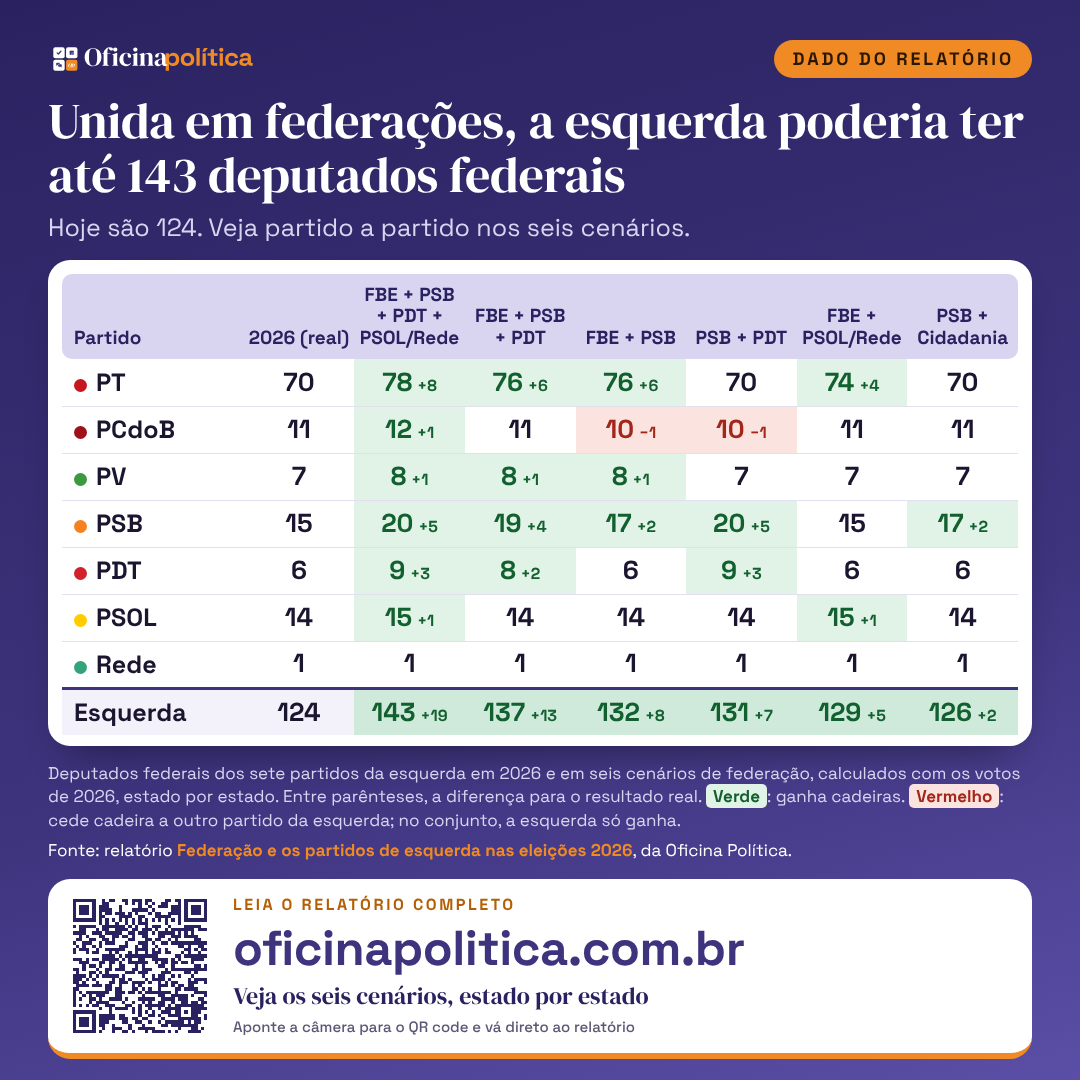
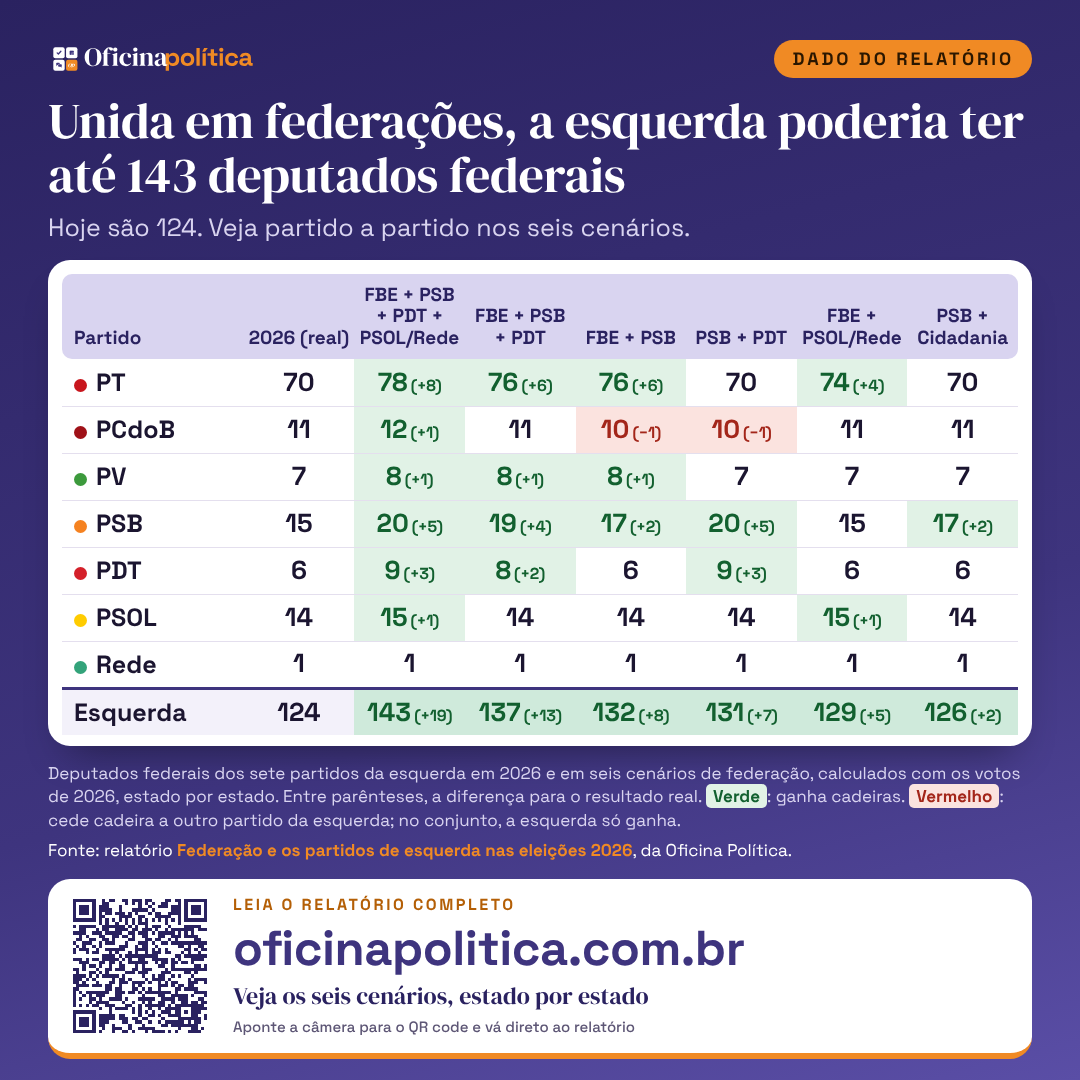
Cards do relatório: diferenças entre parênteses
Claude-Session: https://claude.ai/code/session_018UqncxGv53YAguem9gT8zL

diff --git a/scripts/estudos/card_relatorio.py b/scripts/estudos/card_relatorio.py
@@ -45,7 +45,7 @@ def tabela():
             else:
                 m = re.match(r'^(\d+)(?: \(([+−]\d+)\))?$', t.strip()); n, d = (m.group(1), m.group(2)) if m else (t, None)
                 cls = 'g' if bg == GAIN else ('l' if bg == LOSS else '')
-                tds.append(f'<td class="{cls}"><b>{n}</b>' + (f'<span>{d}</span>' if d else '') + '</td>')
+                tds.append(f'<td class="{cls}"><b>{n}</b>' + (f'<span>({d})</span>' if d else '') + '</td>')
         trs.append(f'<tr class="{"tot" if tot else ""}">' + ''.join(tds) + '</tr>')
     return f'<table><thead><tr>{th}</tr></thead><tbody>{"".join(trs)}</tbody></table>'
 
@@ -82,7 +82,7 @@ th{{font:700 {f['th']}px/1.15 "Space Grotesk";color:#2A2260;background:#D9D4F0;t
 th:first-child{{border-radius:10px 0 0 10px}}th:last-child{{border-radius:0 10px 10px 0}}
 th.p,td.p{{text-align:left;width:19%}}th.p{{padding-left:12px}}
 td{{height:{f['row']}px;text-align:center;border-bottom:1.5px solid #e4dfee;font-size:{f['td']}px;line-height:1.05;white-space:nowrap}}
-td b{{font-weight:700}}td span{{font-size:{f['td']*.62:.0f}px;font-weight:700;margin-left:5px}}
+td b{{font-weight:700}}td span{{font-size:{f['td']*.62:.0f}px;font-weight:700;margin-left:3px;letter-spacing:-.02em}}
 td.p{{font-weight:700;font-size:{f['td']*.95:.0f}px;padding-left:12px;color:#1b1530}}
 td.p i{{display:inline-block;width:{f['td']*.5:.0f}px;height:{f['td']*.5:.0f}px;border-radius:50%;margin-right:{f['td']*.35:.0f}px;vertical-align:{f['td']*-.04:.0f}px}}
 td.g{{background:#e1f2e6;color:#12602f}}td.l{{background:#fbe3df;color:#a3261a}}
